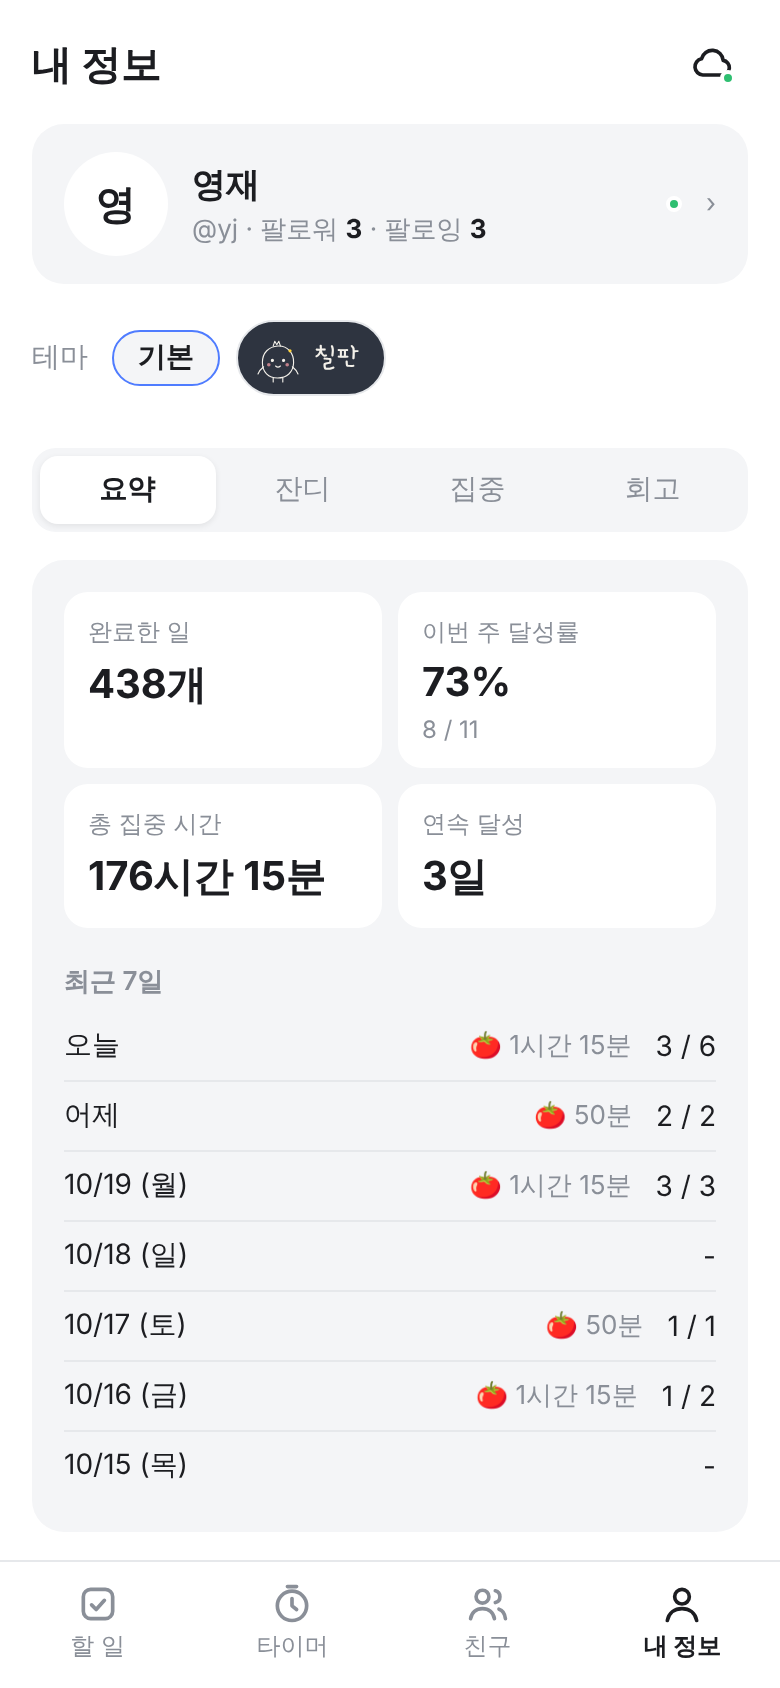
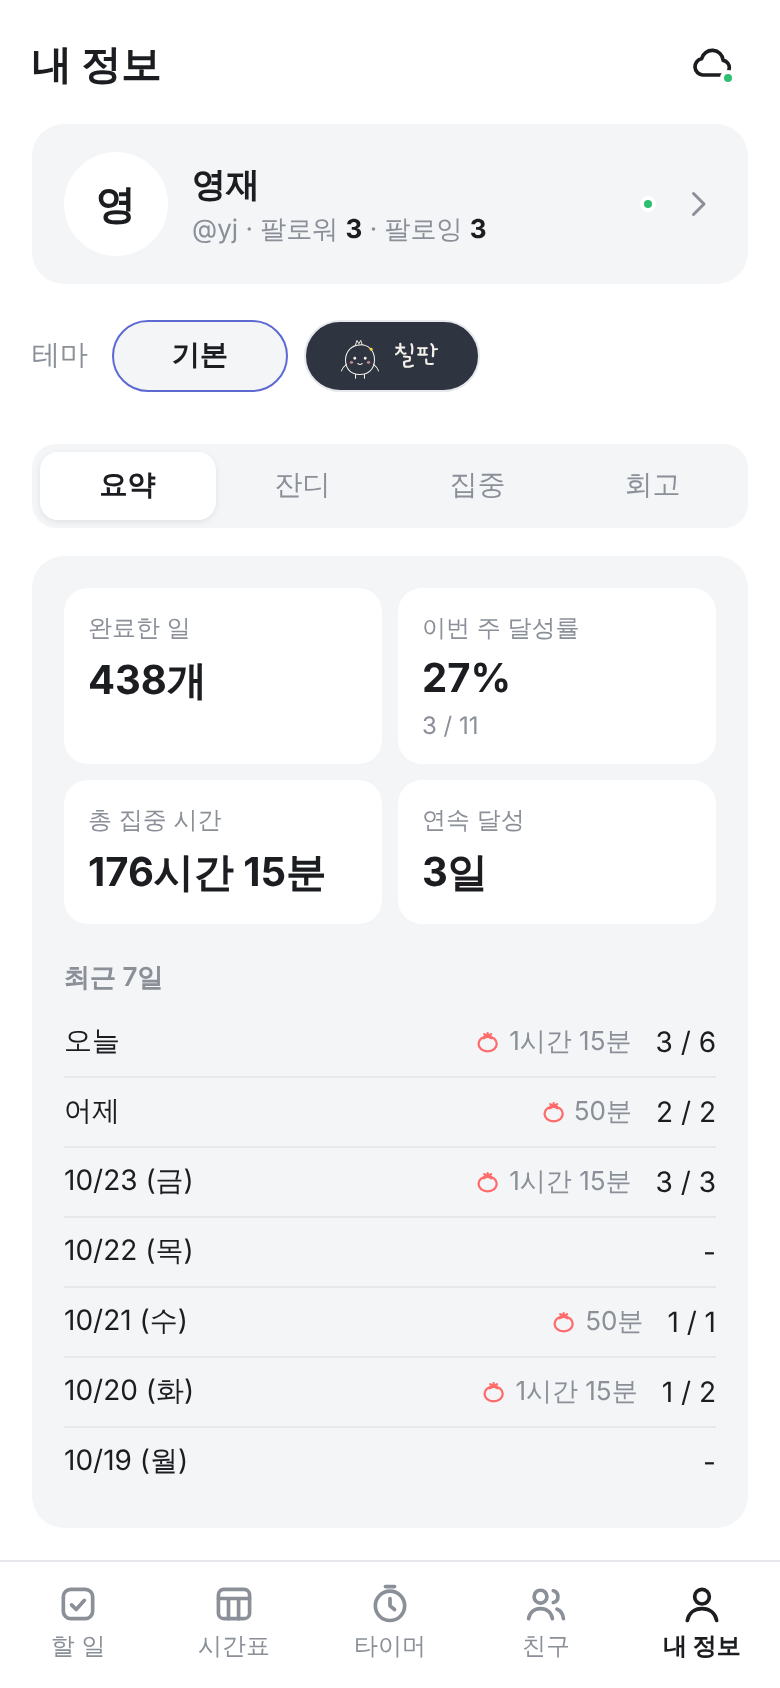
README 최신화: 현재 기능 정리와 스크린샷 다시 찍기
- 최근 추가한 기능 반영: 대학생 시간표, 할 일 순서 바꾸기, 반복 요일 표시, 주/월 전환, 잔디 스크롤, SVG 아이콘, 대표 색 #5E6AD2
- 모든 스크린샷을 현재 화면으로 교체 (시간표 포함)
- 안드로이드 앱 관련 설명은 README에서 제외

Claude-Session: https://claude.ai/code/session_01ESvLZEpgofTHBWUVpNBbKH

diff --git a/README.md b/README.md
@@ -41,27 +41,29 @@
 - 집중 패턴: 요일×시간대별로 언제 가장 많이 집중했는지 표시 (예: "일요일 오후 12시~3시에 가장 많이 집중했어요")
 - 가장 오래 집중한 일, 카테고리별 집중 시간
 - 집중 / 짧은 휴식 / 긴 휴식 시간 직접 설정, 새로고침해도 타이머 유지
-- 안드로이드 앱에서는 앱을 꺼 둬도 종료 알림
 
 | 뽀모도로 | 집중 패턴 |
 |---|---|
 | <img src="docs/screenshots/timer.png" width="260"> | <img src="docs/screenshots/me-focus.png" width="260"> |
 
 ### 4. 할 일 관리
-- 월간 달력이 첫 화면, 날짜마다 남은 할 일 수 표시 (다 끝내면 ✓)
+- 월간 달력이 첫 화면, 오른쪽 `주 | 월` 버튼으로 주간 보기 전환
+- 날짜마다 남은 할 일 수 표시 (다 끝내면 체크)
 - 한국 공휴일 표시: 일요일·공휴일 빨강, 토요일 파랑
-- 카테고리별 색상, 드래그로 순서 변경
+- 카테고리별 색상, 카테고리 이름을 길게 눌러 끌면 순서 변경
+- 카테고리 안의 할 일도 길게 눌러 끌면 순서 변경 (시간을 정하면 시간 순서 자리로 먼저 들어감)
 - 카테고리 접기: 접으면 `완료/전체` 개수만 표시 (예: 1/2)
 - 완료한 일은 줄긋기
 - 할 일마다 시간 지정 (다이얼식 선택기)
-- 반복 할 일: 매일·평일·주말·요일 선택, 제목·시간을 바꾸면 이후 반복분에도 반영
+- 반복 할 일: 매일·평일·주말·요일 선택, 목록에 반복 요일 표시 (예: 평일, 월·수·금)
+- 반복 할 일의 제목·시간을 바꾸면 이후 반복분에도 반영
 - 내일 하기 / 날짜 바꾸기
 
 | 카테고리 접기 | 할 일 상세 |
 |---|---|
 | <img src="docs/screenshots/fold.png" width="260"> | <img src="docs/screenshots/todo-sheet.png" width="260"> |
 
-### 대학생 시간표
+### 5. 대학생 시간표
 - 내 정보 → "대학생 시간표"를 켜면 시간표 탭이 생김 (에브리타임처럼 주간 표)
 - 수업 이름, 강의실, 색상, 요일·시간 여러 개 입력 (예: 월·수 9:00~10:15)
 - 학기 기간 동안 매주 그날 수업이 할 일 화면 맨 위에 자동으로 표시, 공휴일엔 빠짐
@@ -72,7 +74,7 @@
 |---|---|
 | <img src="docs/screenshots/timetable.png" width="260"> | <img src="docs/screenshots/timetable-day.png" width="260"> |
 
-### 5. 기록 (내 정보)
+### 6. 기록 (내 정보)
 - 요약: 완료한 일, 이번 주 달성률, 총 집중 시간, 연속 달성일, 최근 7일
 - 잔디: 활동 히트맵 (3달씩 보이고 옆으로 넘겨 1년까지), 카테고리별로 보기
 - 집중: 요일×시간대별 집중 패턴, 가장 오래 집중한 일
@@ -82,8 +84,9 @@
 |---|---|---|---|
 | <img src="docs/screenshots/me-summary.png" width="190"> | <img src="docs/screenshots/me-grass.png" width="190"> | <img src="docs/screenshots/me-focus.png" width="190"> | <img src="docs/screenshots/me-recap.png" width="190"> |
 
-### 6. 테마
-- 기본 테마 (시스템 다크 모드 자동 지원)
+### 7. 테마
+- 기본 테마 (시스템 다크 모드 자동 지원), 대표 색 `#5E6AD2`
+- 아이콘은 모두 SVG 선 아이콘 (어떤 휴대폰에서도 같은 모양)
 - 칠판 테마: 남색 칠판 배경, 손글씨 폰트, 분필 질감의 캐릭터 "토도"
   - 토도가 남은 할 일 수를 말풍선으로 알려 줌 (할 일 없음: 잠, 다 끝냄: 만세)
   - 뽀모도로 중엔 머리띠를 두르고 집중
@@ -93,7 +96,7 @@
 |---|---|
 | <img src="docs/screenshots/chalk-home.png" width="260"> | <img src="docs/screenshots/chalk-timer.png" width="260"> |
 
-### 7. 계정·동기화
+### 8. 계정·동기화
 - 로그인 없이도 이 기기에 저장 (오프라인 우선)
 - 로그인 방법: 이메일 링크, 이메일+비밀번호, 구글, 카카오
 - 로그인하면 기기 간 자동 동기화 (실시간, 마지막 수정 우선)
@@ -104,7 +107,6 @@
 - 백엔드: Supabase
   - 인증, Postgres, Realtime
   - 모든 테이블에 행 단위 보안(RLS) 적용
-- 안드로이드: Capacitor 8 (웹 코드를 그대로 감싸는 방식)
 - 외부 UI·달력 라이브러리 없이 직접 구현
 
 ## 실행
@@ -121,17 +123,12 @@ npm run build      # 타입 검사 + 빌드 (dist/)
 3. `.env.example`을 참고해 `.env.local` 작성
    - `VITE_SUPABASE_URL`, `VITE_SUPABASE_ANON_KEY`
 4. Authentication → URL Configuration의 Redirect URLs에 앱 주소 추가
-   - 예: `http://localhost:5173`, 배포 주소, `com.wtodo.app://**` (안드로이드)
+   - 예: `http://localhost:5173`, 배포 주소
 - 소셜 로그인 설정: [docs/social-login.md](docs/social-login.md)
 
 ## 배포
 - Vercel에 GitHub 저장소 연결 → `main`에 푸시하면 자동 배포
 - 배포 설정에 환경 변수 두 개 (`VITE_SUPABASE_URL`, `VITE_SUPABASE_ANON_KEY`) 추가
-
-## 안드로이드 앱
-- 앱 ID: `com.wtodo.app`
-- Android Studio에서 빌드: `npm run android`
-- 자세한 방법과 플레이스토어 등록 절차: [docs/android.md](docs/android.md)
 
 ## 폴더 구조
 ```
@@ -143,14 +140,13 @@ src/
   pomodoro.ts    타이머 (종료 시각 기준)
   theme.ts       테마 (기본 / 칠판)
   timetable.ts   대학생 시간표 (학기 기간, 날짜별 수업)
-  native.ts      안드로이드 전용 처리 (소셜 로그인 복귀, 뒤로 가기, 알림)
   holidays.ts    한국 공휴일
+  viewport.ts    아이폰 키보드가 올라올 때 아래 창 위치 맞추기
   components/    화면 컴포넌트 (달력, 할 일 목록, 잔디, 회고 카드, 캐릭터 등)
 supabase/schema.sql  테이블, 권한 규칙(RLS), 함수
-android/             Capacitor 안드로이드 프로젝트
 docs/                설정 안내서, 스크린샷
 ```
 
 ## 앞으로 할 일
-- 안드로이드 플레이스토어 출시 (개인정보처리방침, 앱 내 계정 삭제, 비공개 테스트)
-- 아이폰 앱, 애플 로그인
+- 친구와 시간표 공유, 공강 시간 보기
+- 개인정보처리방침 페이지, 앱 안에서 계정 삭제
